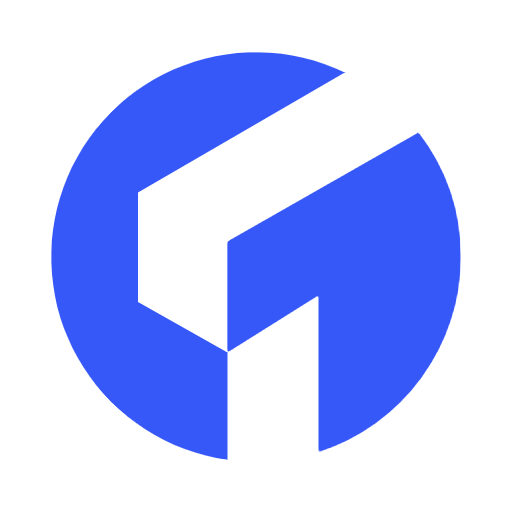
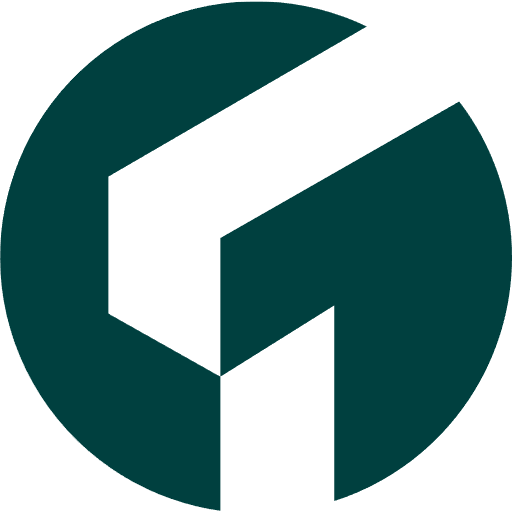
fix vercel build

diff --git a/src/components/Header/index.tsx b/src/components/Header/index.tsx
@@ -59,18 +59,18 @@ const Header = () => {
               className={`navbar-logo flex h-full items-center gap-2`}
             >
               <Image
-                src="/logo-shape.svg"
+                src={sticky || pathUrl !== "/" ? "/logo-shape-green.svg" : "/logo-shape.svg"}
                 alt="logo"
                 width={32}
                 height={32}
                 className={`header-logo ${sticky || pathUrl !== "/"
-                  ? "brightness-0 dark:brightness-100"
+                  ? "dark:brightness-0 dark:invert"
                   : ""
                   }`}
               />
               <span
                 className={`text-xl font-bold font-sans ${sticky || pathUrl !== "/"
-                  ? "text-dark dark:text-white"
+                  ? "text-primary dark:text-white"
                   : "text-white"
                   }`}
               >

diff --git a/src/app/layout.tsx b/src/app/layout.tsx
@@ -4,6 +4,12 @@ import ScrollToTop from "@/components/ScrollToTop";
 import "../styles/index.css";
 import "../styles/prism-vsc-dark-plus.css";
 import Providers from "./providers";
+import { Metadata } from "next";
+
+export const metadata: Metadata = {
+  title: "TOTALFisc - Solution SaaS de comptabilité et fiscalité en Algérie",
+  description: "Solution complète de comptabilité conforme SCF, facturation et déclarations fiscales automatisées pour les entreprises algériennes.",
+};
 
 export default function RootLayout({
   children,

diff --git a/tailwind.config.ts b/tailwind.config.ts
@@ -1,5 +1,4 @@
 import type { Config } from "tailwindcss";
-const colors = require('tailwindcss/colors')
 
 const config: Config = {
   darkMode: "class",
@@ -11,7 +10,6 @@ const config: Config = {
   theme: {
     extend: {
       colors: {
-        ...colors,
         primary: "#00403f",
       },
     },
